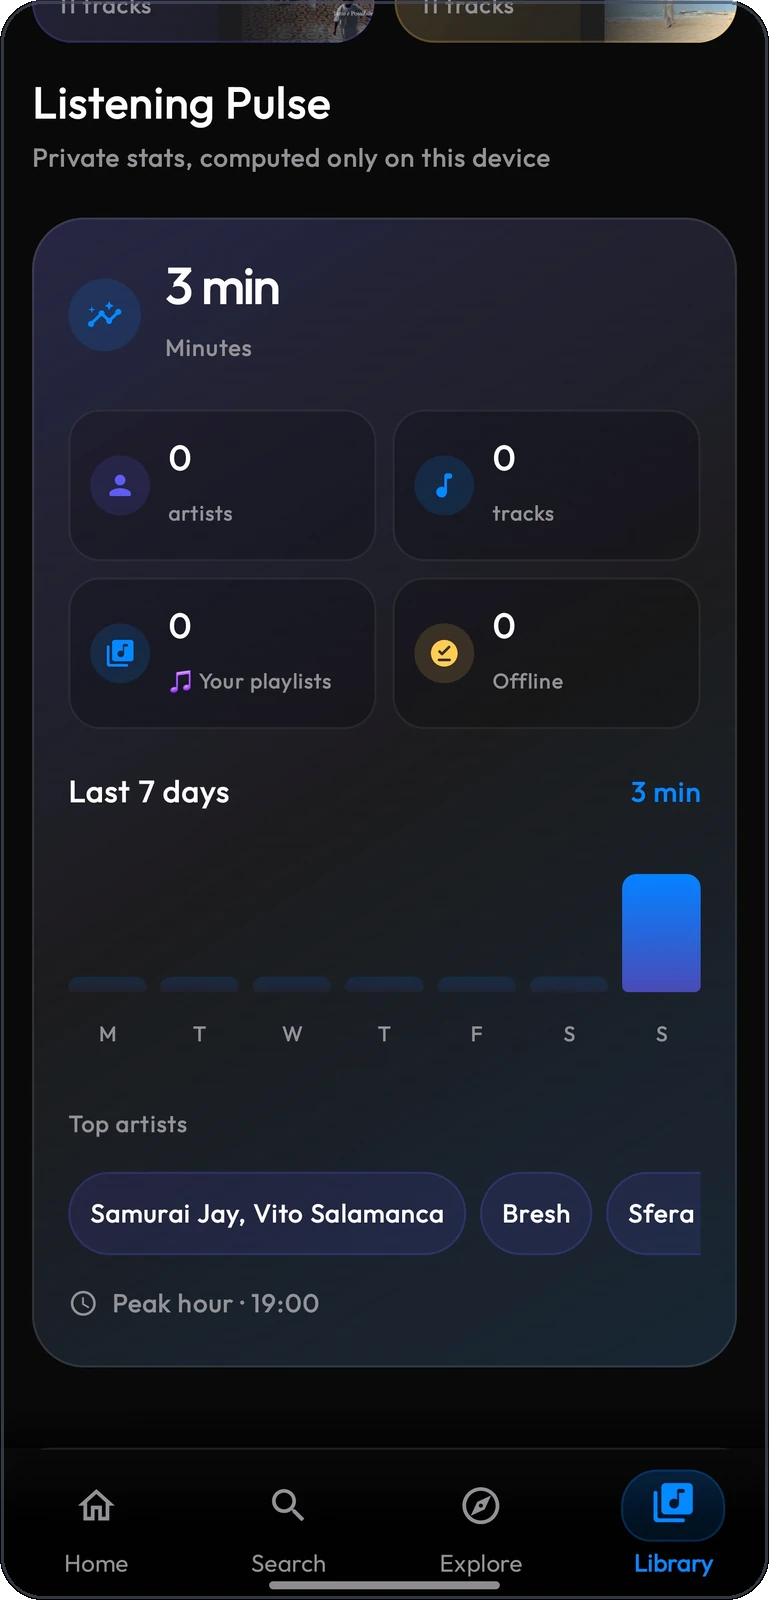
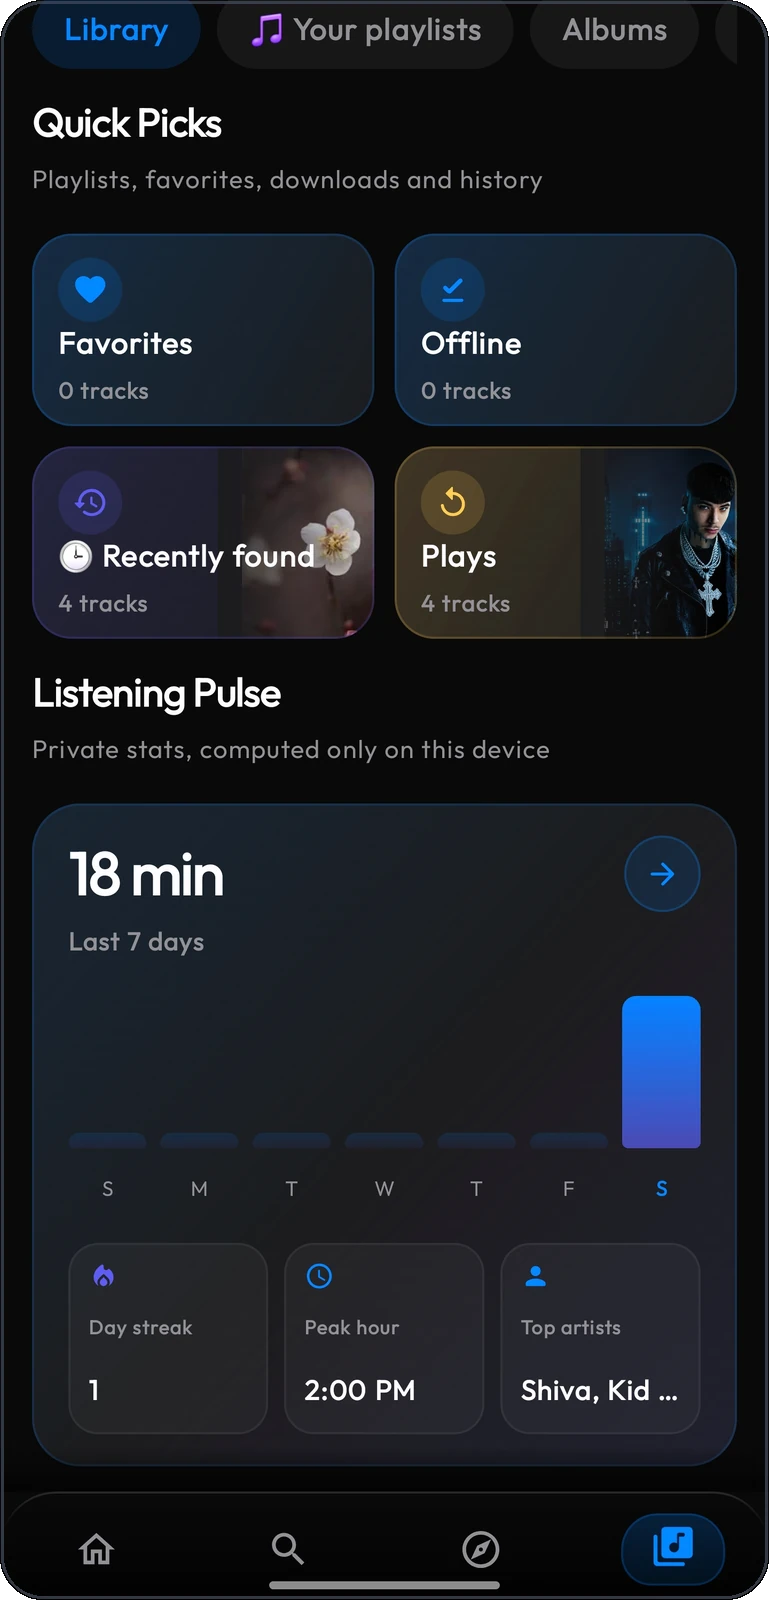
docs: refresh player and listening screenshots

Changed region(s): [[0.0312, 0.0, 0.9675, 1.0], [0.1248, 0.625, 0.156, 0.6562]]

diff --git a/scripts/generate_showcase_assets.py b/scripts/generate_showcase_assets.py
@@ -15,9 +15,9 @@ SCREENS = {
     "home": r"C:\Users\Luca Drogo\Downloads\Screenshot_20260926_171253_LEVYRA.jpg",
     "charts": "screen-charts.jpg",
     "genres": "screen-genres.jpg",
-    "listening_pulse": "screen-listening-pulse.jpg",
+    "listening_pulse": r"C:\Users\Luca Drogo\Downloads\Screenshot_20260926_193717_LEVYRA.jpg",
     "lyrics": "screen-lyrics.jpg",
-    "now_playing": "screen-player-nowplaying.jpg",
+    "now_playing": r"C:\Users\Luca Drogo\Downloads\Screenshot_20260926_193948_LEVYRA.jpg",
     "search_artist": "screen-search-artist.jpg",
     "artist_discography": "screen-artist-discography.jpg",
 }
@@ -365,7 +365,7 @@ def generate_hero_panoramic_showcase():
         canvas.paste(shadow, (x - 42, y - 16), shadow)
         canvas.paste(phone, (x, y), phone)
 
-    out_path = os.path.join(OUT_SHOWCASE_DIR, "00_levyra_hero_wall.webp")
+    out_path = os.path.join(OUT_SHOWCASE_DIR, "00_levyra_hero_wall_player.webp")
     canvas.convert("RGB").save(out_path, "WEBP", quality=94, method=6)
     print(f"Generated Panoramic Hero Showcase: {out_path}")
 
@@ -412,7 +412,11 @@ def generate_feature_cards():
         card.paste(shadow, (phone_x - 42, phone_y - 16), shadow)
         card.paste(phone, (phone_x, phone_y), phone)
 
-        out_path = os.path.join(OUT_CARDS_DIR, f"{number}_{key}.webp")
+        output_name = {
+            "now_playing": "02_stay_with_the_song.webp",
+            "listening_pulse": "08_keep_it_personal.webp",
+        }.get(key, f"{number}_{key}.webp")
+        out_path = os.path.join(OUT_CARDS_DIR, output_name)
         card.convert("RGB").save(out_path, "WEBP", quality=91, method=6)
         print(f"Generated Feature Card: {out_path}")
 

diff --git a/README.md b/README.md
@@ -138,7 +138,7 @@ Artwork, lyrics, queue position, listening history and recommendations still bel
 
 <div align="center">
 
-<a href="docs/assets/showcase/00_levyra_hero_wall.webp"><img src="docs/assets/showcase/00_levyra_hero_wall.webp" width="100%" alt="Levyra music player for Android and Windows" /></a>
+<a href="docs/assets/showcase/00_levyra_hero_wall_player.webp"><img src="docs/assets/showcase/00_levyra_hero_wall_player.webp" width="100%" alt="Levyra music player for Android and Windows" /></a>
 
 <p align="center">
   <sub>Browse radio and charts, open an artist, switch to video or follow synced lyrics. Your listening stats stay on your device.</sub>
@@ -146,7 +146,7 @@ Artwork, lyrics, queue position, listening history and recommendations still bel
 
 <p align="center">
   <a href="docs/assets/showcase/cards/01_home.webp"><img src="docs/assets/showcase/cards/01_home.webp" width="200" alt="Levyra home and personalized radio" /></a>
-  <a href="docs/assets/showcase/cards/02_now_playing.webp"><img src="docs/assets/showcase/cards/02_now_playing.webp" width="200" alt="Levyra song and video player" /></a>
+  <a href="docs/assets/showcase/cards/02_stay_with_the_song.webp"><img src="docs/assets/showcase/cards/02_stay_with_the_song.webp" width="200" alt="Levyra song and video player" /></a>
   <a href="docs/assets/showcase/cards/03_lyrics.webp"><img src="docs/assets/showcase/cards/03_lyrics.webp" width="200" alt="Levyra synchronized lyrics" /></a>
   <a href="docs/assets/showcase/cards/04_charts.webp"><img src="docs/assets/showcase/cards/04_charts.webp" width="200" alt="Levyra international charts" /></a>
 </p>
@@ -154,7 +154,7 @@ Artwork, lyrics, queue position, listening history and recommendations still bel
   <a href="docs/assets/showcase/cards/05_search_artist.webp"><img src="docs/assets/showcase/cards/05_search_artist.webp" width="200" alt="Levyra artist search" /></a>
   <a href="docs/assets/showcase/cards/06_artist_discography.webp"><img src="docs/assets/showcase/cards/06_artist_discography.webp" width="200" alt="Levyra artist discography" /></a>
   <a href="docs/assets/showcase/cards/07_genres.webp"><img src="docs/assets/showcase/cards/07_genres.webp" width="200" alt="Levyra moods and genres" /></a>
-  <a href="docs/assets/showcase/cards/08_listening_pulse.webp"><img src="docs/assets/showcase/cards/08_listening_pulse.webp" width="200" alt="Levyra private listening stats" /></a>
+  <a href="docs/assets/showcase/cards/08_keep_it_personal.webp"><img src="docs/assets/showcase/cards/08_keep_it_personal.webp" width="200" alt="Levyra private listening stats" /></a>
 </p>
 
 </div>
